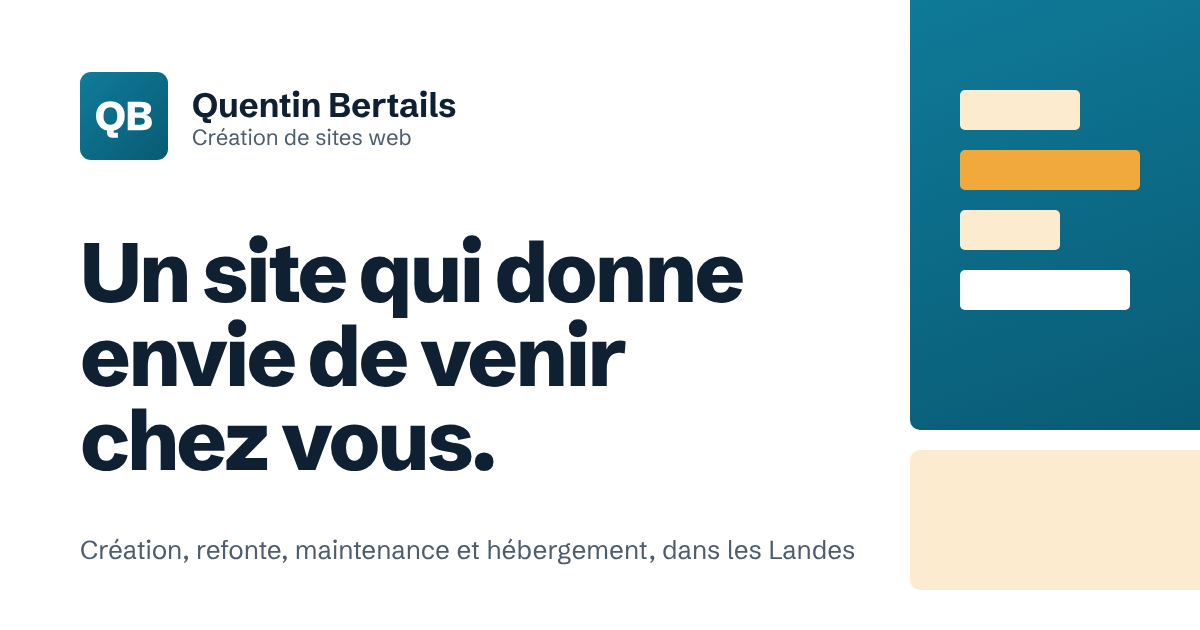
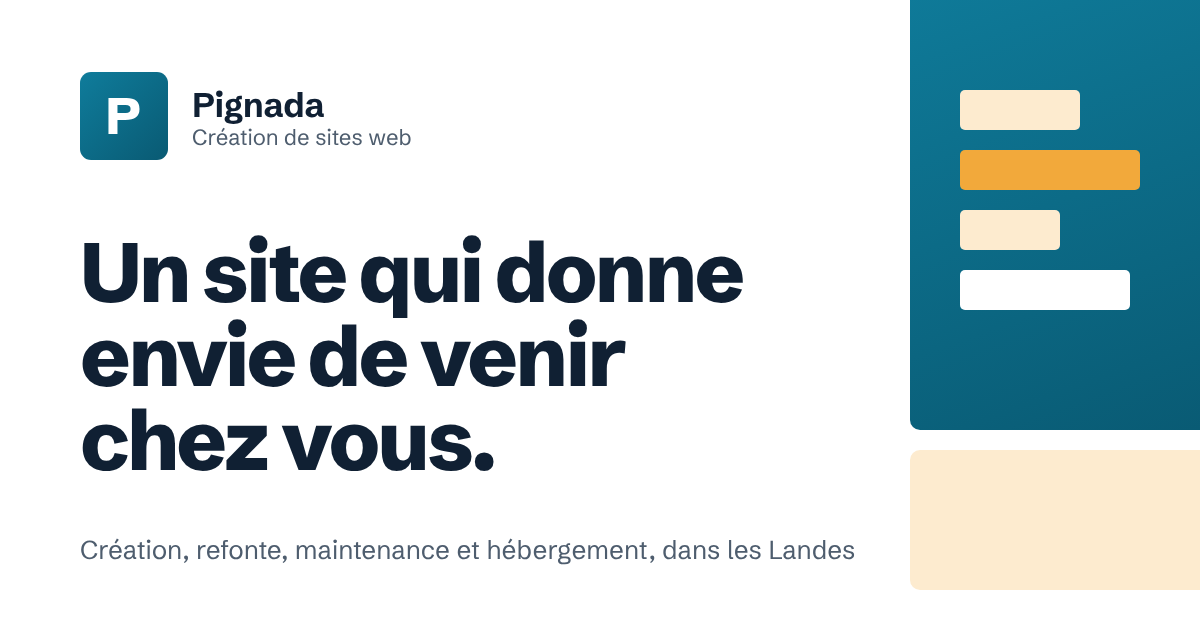
Nouveau nom commercial : Pignada, création de sites web
Logo P, titres, données Google, manifeste, image de partage, projet Blade Runner.
Les mentions légales gardent le nom de l'entrepreneur (obligatoire).

Claude-Session: https://claude.ai/code/session_01K9oxkQeCmCzDxdRJitzgbf

Changed region(s): [[0.1542, 0.1508, 0.4008, 0.2111], [0.0617, 0.1508, 0.1233, 0.2111]]

diff --git a/index.html b/index.html
@@ -1,6 +1,6 @@
 ---
 layout: base
-title: Création de sites web dans les Landes | Quentin Bertails
+title: Création de sites web dans les Landes | Pignada
 description: Création, refonte, maintenance et hébergement de sites web pour les commerces et activités de loisirs des Landes. Devis gratuit.
 ---
 <main id="contenu">
@@ -149,11 +149,11 @@ description: Création, refonte, maintenance et hébergement de sites web pour l
     <div class="wrap about-grid">
       <div class="about-text">
         <h2>Un interlocuteur local, qui parle votre langue et celle de vos visiteurs</h2>
-        <p>Je m'appelle Quentin Bertails. Je conçois des sites en HTML, CSS, JavaScript et PHP, et je travaille aussi avec WordPress quand vous voulez pouvoir modifier vos contenus vous-même.</p>
+        <p>Pignada, c'est moi, Quentin. Je conçois des sites en HTML, CSS, JavaScript et PHP, et je travaille aussi avec WordPress quand vous voulez pouvoir modifier vos contenus vous-même.</p>
         <p>Je peux aussi <a href="/services/traduction-site-anglais.html">traduire votre site en anglais</a> pour accueillir les nombreux touristes étrangers qui passent par la côte landaise.</p>
         <div class="about-sign">
-          <svg class="brand-mark" viewBox="0 0 64 64" aria-hidden="true" focusable="false"><defs><linearGradient id="qb-grad" x1="0" y1="0" x2="1" y2="1"><stop offset="0" stop-color="#0F7C9B"/><stop offset="1" stop-color="#095A73"/></linearGradient></defs><rect width="64" height="64" rx="8" fill="url(#qb-grad)"/><path d="M23.77 47.81Q21.70 47.81 20.68 46.87Q19.67 45.94 19.67 44.10V42.53Q17.94 42.22 16.53 41.43Q14.19 40.13 12.93 37.72Q11.66 35.30 11.66 32.0Q11.66 28.67 12.93 26.27Q14.19 23.87 16.53 22.57Q18.88 21.26 22.10 21.26Q25.32 21.26 27.66 22.57Q30.00 23.87 31.27 26.27Q32.53 28.67 32.53 32.0Q32.53 35.30 31.27 37.72Q30.00 40.13 27.66 41.43Q26.22 42.23 24.47 42.53V43.39Q24.47 43.88 24.61 44.04Q24.74 44.20 25.19 44.20H27.56V47.81ZM22.08 38.32Q23.69 38.32 24.81 37.57Q25.94 36.83 26.53 35.41Q27.11 33.99 27.11 32.0Q27.11 29.98 26.53 28.57Q25.94 27.17 24.81 26.42Q23.69 25.67 22.08 25.67Q20.50 25.67 19.38 26.42Q18.26 27.17 17.66 28.57Q17.07 29.98 17.07 32.0Q17.07 33.99 17.66 35.41Q18.26 36.83 19.38 37.57Q20.50 38.32 22.08 38.32ZM34.70 42.35V21.65H44.39Q48.15 21.65 49.93 22.95Q51.71 24.26 51.71 26.73Q51.71 28.37 51.06 29.33Q50.42 30.28 49.45 30.74Q48.59 31.18 47.73 31.33Q49.87 31.71 51.08 32.97Q52.33 34.28 52.33 36.6Q52.33 38.78 51.29 40.04Q50.26 41.30 48.56 41.82Q46.85 42.35 44.85 42.35ZM39.89 38.36H43.75Q45.10 38.36 45.82 38.03Q46.54 37.69 46.81 37.11Q47.08 36.52 47.08 35.82Q47.08 35.10 46.78 34.52Q46.48 33.94 45.71 33.60Q44.94 33.26 43.55 33.26H39.89ZM39.89 29.54H43.99Q45.26 29.54 45.90 29.07Q46.55 28.60 46.55 27.58Q46.55 26.71 46.00 26.17Q45.46 25.63 44.02 25.63H39.89Z" fill="#fff"/></svg>
-          <div><strong>Quentin Bertails</strong><span>Création de sites web</span></div>
+          <svg class="brand-mark" viewBox="0 0 64 64" aria-hidden="true" focusable="false"><defs><linearGradient id="qb-grad" x1="0" y1="0" x2="1" y2="1"><stop offset="0" stop-color="#0F7C9B"/><stop offset="1" stop-color="#095A73"/></linearGradient></defs><rect width="64" height="64" rx="8" fill="url(#qb-grad)"/><path d="M20.70 45.05V18.95H33.84Q38.57 18.95 40.93 20.94Q43.29 22.93 43.29 26.92Q43.29 30.89 40.71 32.89Q38.14 34.9 32.94 34.9H27.25V45.05ZM27.25 29.87H33.37Q35.02 29.87 35.91 29.10Q36.80 28.33 36.80 26.94Q36.80 25.58 35.92 24.77Q35.04 23.97 33.23 23.97H27.25Z" fill="#fff"/></svg>
+          <div><strong>Quentin</strong><span>Fondateur de Pignada</span></div>
         </div>
       </div>
       <div class="assets">
@@ -396,12 +396,12 @@ description: Création, refonte, maintenance et hébergement de sites web pour l
 
 <script type="application/ld+json">
 {"@context": "https://schema.org", "@graph": [
-  {"@type": "WebSite", "@id": "{{ site.url }}/#site", "name": "Quentin Bertails", "alternateName": ["Quentin Bertails – Création de sites web", "QB Création web"], "url": "{{ site.url }}/", "inLanguage": "fr"},
-  {"@type": "ProfessionalService", "@id": "{{ site.url }}/#entreprise", "name": "Quentin Bertails – Création de sites web",
+  {"@type": "WebSite", "@id": "{{ site.url }}/#site", "name": "Pignada", "alternateName": ["Pignada – Création de sites web", "Pignada création de site web"], "url": "{{ site.url }}/", "inLanguage": "fr"},
+  {"@type": "ProfessionalService", "@id": "{{ site.url }}/#entreprise", "name": "Pignada – Création de sites web",
    "description": "Création, refonte, maintenance et hébergement de sites web pour les commerces locaux.",
    "email": {{ site.data.reglages.email | jsonify }}, "telephone": "{% include tel.html %}", "areaServed": "Landes, France",
    "url": "{{ site.url }}/", "logo": "{{ site.url }}/assets/icons/icon-512.png", "image": "{{ site.url }}/assets/og-image.png",
-   "founder": {"@type": "Person", "name": "Quentin Bertails"}, "knowsLanguage": ["fr", "en"],
+   "knowsLanguage": ["fr", "en"],
    "hasOfferCatalog": {"@type": "OfferCatalog", "name": "Services", "itemListElement": [
 {%- assign services_tries = site.services | sort: "ordre" %}
 {%- for s in services_tries %}

diff --git a/_includes/marque.html b/_includes/marque.html
@@ -1,1 +1,1 @@
-<svg class="brand-mark" viewBox="0 0 64 64" aria-hidden="true" focusable="false"><defs><linearGradient id="qb-grad" x1="0" y1="0" x2="1" y2="1"><stop offset="0" stop-color="#0F7C9B"/><stop offset="1" stop-color="#095A73"/></linearGradient></defs><rect width="64" height="64" rx="8" fill="url(#qb-grad)"/><path d="M23.77 47.81Q21.70 47.81 20.68 46.87Q19.67 45.94 19.67 44.10V42.53Q17.94 42.22 16.53 41.43Q14.19 40.13 12.93 37.72Q11.66 35.30 11.66 32.0Q11.66 28.67 12.93 26.27Q14.19 23.87 16.53 22.57Q18.88 21.26 22.10 21.26Q25.32 21.26 27.66 22.57Q30.00 23.87 31.27 26.27Q32.53 28.67 32.53 32.0Q32.53 35.30 31.27 37.72Q30.00 40.13 27.66 41.43Q26.22 42.23 24.47 42.53V43.39Q24.47 43.88 24.61 44.04Q24.74 44.20 25.19 44.20H27.56V47.81ZM22.08 38.32Q23.69 38.32 24.81 37.57Q25.94 36.83 26.53 35.41Q27.11 33.99 27.11 32.0Q27.11 29.98 26.53 28.57Q25.94 27.17 24.81 26.42Q23.69 25.67 22.08 25.67Q20.50 25.67 19.38 26.42Q18.26 27.17 17.66 28.57Q17.07 29.98 17.07 32.0Q17.07 33.99 17.66 35.41Q18.26 36.83 19.38 37.57Q20.50 38.32 22.08 38.32ZM34.70 42.35V21.65H44.39Q48.15 21.65 49.93 22.95Q51.71 24.26 51.71 26.73Q51.71 28.37 51.06 29.33Q50.42 30.28 49.45 30.74Q48.59 31.18 47.73 31.33Q49.87 31.71 51.08 32.97Q52.33 34.28 52.33 36.6Q52.33 38.78 51.29 40.04Q50.26 41.30 48.56 41.82Q46.85 42.35 44.85 42.35ZM39.89 38.36H43.75Q45.10 38.36 45.82 38.03Q46.54 37.69 46.81 37.11Q47.08 36.52 47.08 35.82Q47.08 35.10 46.78 34.52Q46.48 33.94 45.71 33.60Q44.94 33.26 43.55 33.26H39.89ZM39.89 29.54H43.99Q45.26 29.54 45.90 29.07Q46.55 28.60 46.55 27.58Q46.55 26.71 46.00 26.17Q45.46 25.63 44.02 25.63H39.89Z" fill="#fff"/></svg>
+<svg class="brand-mark" viewBox="0 0 64 64" aria-hidden="true" focusable="false"><defs><linearGradient id="qb-grad" x1="0" y1="0" x2="1" y2="1"><stop offset="0" stop-color="#0F7C9B"/><stop offset="1" stop-color="#095A73"/></linearGradient></defs><rect width="64" height="64" rx="8" fill="url(#qb-grad)"/><path d="M20.70 45.05V18.95H33.84Q38.57 18.95 40.93 20.94Q43.29 22.93 43.29 26.92Q43.29 30.89 40.71 32.89Q38.14 34.9 32.94 34.9H27.25V45.05ZM27.25 29.87H33.37Q35.02 29.87 35.91 29.10Q36.80 28.33 36.80 26.94Q36.80 25.58 35.92 24.77Q35.04 23.97 33.23 23.97H27.25Z" fill="#fff"/></svg>

diff --git a/mentions-legales.html b/mentions-legales.html
@@ -1,7 +1,7 @@
 ---
 layout: base
-title: Mentions légales et confidentialité | Quentin Bertails
-description: Mentions légales, hébergement et politique de confidentialité du site de Quentin Bertails, création de sites web.
+title: Mentions légales et confidentialité | Pignada
+description: Mentions légales, hébergement et politique de confidentialité du site Pignada, création de sites web.
 ---
 <main id="contenu" class="wrap legal">
   <div class="legal-head">
@@ -12,7 +12,7 @@ description: Mentions légales, hébergement et politique de confidentialité du
     <section>
       <h2>Éditeur du site</h2>
       <dl>
-        <dt>Nom</dt><dd>Quentin Bertails, entrepreneur individuel (EI)</dd>
+        <dt>Nom</dt><dd>Quentin Bertails, entrepreneur individuel (EI), sous le nom commercial Pignada</dd>
         <dt>SIRET</dt><dd>{{ site.data.reglages.siret }}</dd>
         <dt>Adresse</dt><dd>{{ site.data.reglages.adresse }}</dd>
         <dt>Email</dt><dd><a href="mailto:{{ site.data.reglages.email }}">{{ site.data.reglages.email }}</a></dd>
@@ -45,7 +45,7 @@ description: Mentions légales, hébergement et politique de confidentialité du
 
     <section>
       <h2>Propriété intellectuelle</h2>
-      <p>Les textes, la mise en page et le logo de ce site appartiennent à Quentin Bertails. Toute reproduction sans accord est interdite. Les exemples de sites présentés sont fictifs ou utilisés avec l'accord des intéressés.</p>
+      <p>Les textes, la mise en page et le logo de ce site appartiennent à Quentin Bertails (Pignada). Toute reproduction sans accord est interdite. Les exemples de sites présentés sont fictifs ou utilisés avec l'accord des intéressés.</p>
       <p>Le projet d'étude consacré à <em>Blade Runner 2049</em> est un site d'analyse non officiel, sans lien avec les ayants droit du film. Il ne reproduit aucune image, aucun logo ni aucune réplique du film : ses illustrations sont des créations originales. <em>Blade Runner</em> est une marque de ses propriétaires respectifs.</p>
       <p>Police de caractères : Schibsted Grotesk, sous licence SIL Open Font License 1.1.</p>
     </section>

diff --git a/_layouts/article.html b/_layouts/article.html
@@ -12,7 +12,7 @@ layout: base
     <header class="wrap article-head">
       <h1>{{ page.titre }}</h1>
       <p class="hero-lead">{{ page.chapo }}</p>
-      <p class="article-meta">Publié le <time datetime="{{ page.date | date: '%Y-%m-%d' }}">{{ page.date | date: "%-d" }} {{ mois[m] }} {{ page.date | date: "%Y" }}</time>, par Quentin Bertails. Lecture : {{ minutes }} minutes.</p>
+      <p class="article-meta">Publié le <time datetime="{{ page.date | date: '%Y-%m-%d' }}">{{ page.date | date: "%-d" }} {{ mois[m] }} {{ page.date | date: "%Y" }}</time>, par Pignada. Lecture : {{ minutes }} minutes.</p>
     </header>
     <div class="wrap">
       <div class="prose">
@@ -38,7 +38,7 @@ layout: base
 {"@context": "https://schema.org", "@graph": [
   {"@type": "Article", "headline": {{ page.title | jsonify }}, "description": {{ page.description | jsonify }}, "inLanguage": "fr",
    "datePublished": "{{ page.date | date: '%Y-%m-%d' }}", "dateModified": "{{ page.last_modified_at | default: page.date | date: '%Y-%m-%d' }}",
-   "author": {"@type": "Person", "name": "Quentin Bertails", "url": "{{ site.url }}/"}, "publisher": {"@type": "Person", "name": "Quentin Bertails", "url": "{{ site.url }}/"},
+   "author": {"@type": "Organization", "name": "Pignada", "url": "{{ site.url }}/"}, "publisher": {"@type": "Organization", "name": "Pignada", "url": "{{ site.url }}/"},
    "mainEntityOfPage": "{{ site.url }}{{ page.url }}", "image": "{{ site.url }}/assets/og-image.png"},
   {"@type": "BreadcrumbList", "itemListElement": [
     {"@type": "ListItem", "position": 1, "name": "Accueil", "item": "{{ site.url }}/"},

diff --git a/_includes/head.html b/_includes/head.html
@@ -1,6 +1,6 @@
 <meta charset="utf-8">
 <meta name="viewport" content="width=device-width, initial-scale=1">
-<title>{{ page.title }}{% if page.collection == "conseils" %} | Quentin Bertails{% endif %}</title>
+<title>{{ page.title }}{% if page.collection == "conseils" %} | Pignada{% endif %}</title>
 <meta name="description" content="{{ page.description | escape }}">
 <meta name="theme-color" content="#0B6A87">
 {%- if page.url == "/" %}
@@ -12,10 +12,10 @@
 <link rel="canonical" href="{{ site.url }}{{ page.url }}">
 {%- endif %}
 <meta property="og:type" content="{% if page.collection == 'conseils' %}article{% else %}website{% endif %}">
-<meta property="og:title" content="{{ page.title | escape }}{% if page.collection == "conseils" %} | Quentin Bertails{% endif %}">
+<meta property="og:title" content="{{ page.title | escape }}{% if page.collection == "conseils" %} | Pignada{% endif %}">
 <meta property="og:description" content="{{ page.description | escape }}">
 <meta property="og:url" content="{{ site.url }}{{ page.url }}">
-<meta property="og:site_name" content="Quentin Bertails">
+<meta property="og:site_name" content="Pignada">
 <meta property="og:locale" content="fr_FR">
 <meta property="og:image" content="{{ site.url }}/assets/og-image.png">
 <meta property="og:image:width" content="1200">

diff --git a/assets/css/site.css b/assets/css/site.css
@@ -1,4 +1,4 @@
-/* Quentin Bertails — feuille de styles commune à toutes les pages. */
+/* Pignada — feuille de styles commune à toutes les pages. */
 @font-face { font-family: "Schibsted Grotesk"; font-style: normal; font-weight: 400; font-display: swap; src: url("../fonts/schibsted-grotesk-latin-400-normal.woff2") format("woff2"); unicode-range: U+0000-00FF, U+0131, U+0152-0153, U+02BB-02BC, U+02C6, U+02DA, U+02DC, U+0304, U+0308, U+0329, U+2000-206F, U+20AC, U+2122, U+2191, U+2193, U+2212, U+2215, U+FEFF, U+FFFD; }
 @font-face { font-family: "Schibsted Grotesk"; font-style: normal; font-weight: 500; font-display: swap; src: url("../fonts/schibsted-grotesk-latin-500-normal.woff2") format("woff2"); unicode-range: U+0000-00FF, U+0131, U+0152-0153, U+02BB-02BC, U+02C6, U+02DA, U+02DC, U+0304, U+0308, U+0329, U+2000-206F, U+20AC, U+2122, U+2191, U+2193, U+2212, U+2215, U+FEFF, U+FFFD; }
 @font-face { font-family: "Schibsted Grotesk"; font-style: normal; font-weight: 600; font-display: swap; src: url("../fonts/schibsted-grotesk-latin-600-normal.woff2") format("woff2"); unicode-range: U+0000-00FF, U+0131, U+0152-0153, U+02BB-02BC, U+02C6, U+02DA, U+02DC, U+0304, U+0308, U+0329, U+2000-206F, U+20AC, U+2122, U+2191, U+2193, U+2212, U+2215, U+FEFF, U+FFFD; }

diff --git a/_layouts/service.html b/_layouts/service.html
@@ -100,7 +100,7 @@ layout: base
 <script type="application/ld+json">
 {"@context": "https://schema.org", "@graph": [
   {"@type": "Service", "name": {{ page.nom | jsonify }}, "serviceType": {{ page.nom | jsonify }}, "description": {{ page.description | jsonify }}, "url": "{{ site.url }}{{ page.url }}", "areaServed": "Landes, France",
-   "provider": {"@type": "ProfessionalService", "@id": "{{ site.url }}/#entreprise", "name": "Quentin Bertails – Création de sites web", "url": "{{ site.url }}/"}},
+   "provider": {"@type": "ProfessionalService", "@id": "{{ site.url }}/#entreprise", "name": "Pignada – Création de sites web", "url": "{{ site.url }}/"}},
   {"@type": "BreadcrumbList", "itemListElement": [
     {"@type": "ListItem", "position": 1, "name": "Accueil", "item": "{{ site.url }}/"},
     {"@type": "ListItem", "position": 2, "name": {{ page.nom | jsonify }}, "item": "{{ site.url }}{{ page.url }}"}]},

diff --git a/_includes/footer.html b/_includes/footer.html
@@ -8,7 +8,7 @@
         <a class="brand" href="/">
           {% include marque.html %}
           <span class="brand-text">
-            <span class="brand-name">Quentin Bertails</span>
+            <span class="brand-name">Pignada</span>
             <span class="brand-sub">Création de sites web</span>
           </span>
         </a>
@@ -41,7 +41,7 @@
       </div>
     </div>
     <div class="footer-bottom">
-      <span>© <span class="js-year">{{ site.time | date: "%Y" }}</span> Quentin Bertails</span>
+      <span>© <span class="js-year">{{ site.time | date: "%Y" }}</span> Pignada</span>
       <a class="link-btn" href="/mentions-legales.html">Mentions légales et confidentialité</a>
     </div>
   </div>

diff --git a/realisations/blade-runner-2049/inspirations.html b/realisations/blade-runner-2049/inspirations.html
@@ -14,7 +14,7 @@
 </head>
 <body data-zone="inspirations">
   <a class="skip-link" href="#contenu">Aller au contenu</a>
-  <div class="qb-bar"><p>Projet d’étude réalisé par <a href="/">Quentin Bertails</a>, création de sites web.</p><a class="qb-bar-retour" href="/#realisations">Retour au portfolio</a></div>
+  <div class="qb-bar"><p>Projet d’étude réalisé par <a href="/">Pignada</a>, création de sites web.</p><a class="qb-bar-retour" href="/#realisations">Retour au portfolio</a></div>
 
   <header class="site-header">
     <!-- Case à cocher qui contrôle l'ouverture du menu mobile (fonctionne sans JavaScript) -->

diff --git a/realisations/blade-runner-2049/personnages.html b/realisations/blade-runner-2049/personnages.html
@@ -15,7 +15,7 @@
 </head>
 <body data-zone="personnages">
   <a class="skip-link" href="#contenu">Aller au contenu</a>
-  <div class="qb-bar"><p>Projet d’étude réalisé par <a href="/">Quentin Bertails</a>, création de sites web.</p><a class="qb-bar-retour" href="/#realisations">Retour au portfolio</a></div>
+  <div class="qb-bar"><p>Projet d’étude réalisé par <a href="/">Pignada</a>, création de sites web.</p><a class="qb-bar-retour" href="/#realisations">Retour au portfolio</a></div>
 
   <header class="site-header">
     <!-- Case à cocher qui contrôle l'ouverture du menu mobile (fonctionne sans JavaScript) -->

diff --git a/realisations/blade-runner-2049/univers.html b/realisations/blade-runner-2049/univers.html
@@ -14,7 +14,7 @@
 </head>
 <body data-zone="univers">
   <a class="skip-link" href="#contenu">Aller au contenu</a>
-  <div class="qb-bar"><p>Projet d’étude réalisé par <a href="/">Quentin Bertails</a>, création de sites web.</p><a class="qb-bar-retour" href="/#realisations">Retour au portfolio</a></div>
+  <div class="qb-bar"><p>Projet d’étude réalisé par <a href="/">Pignada</a>, création de sites web.</p><a class="qb-bar-retour" href="/#realisations">Retour au portfolio</a></div>
 
   <header class="site-header">
     <!-- Case à cocher qui contrôle l'ouverture du menu mobile (fonctionne sans JavaScript) -->

diff --git a/realisations/blade-runner-2049/themes.html b/realisations/blade-runner-2049/themes.html
@@ -14,7 +14,7 @@
 </head>
 <body data-zone="themes">
   <a class="skip-link" href="#contenu">Aller au contenu</a>
-  <div class="qb-bar"><p>Projet d’étude réalisé par <a href="/">Quentin Bertails</a>, création de sites web.</p><a class="qb-bar-retour" href="/#realisations">Retour au portfolio</a></div>
+  <div class="qb-bar"><p>Projet d’étude réalisé par <a href="/">Pignada</a>, création de sites web.</p><a class="qb-bar-retour" href="/#realisations">Retour au portfolio</a></div>
 
   <header class="site-header">
     <!-- Case à cocher qui contrôle l'ouverture du menu mobile (fonctionne sans JavaScript) -->
